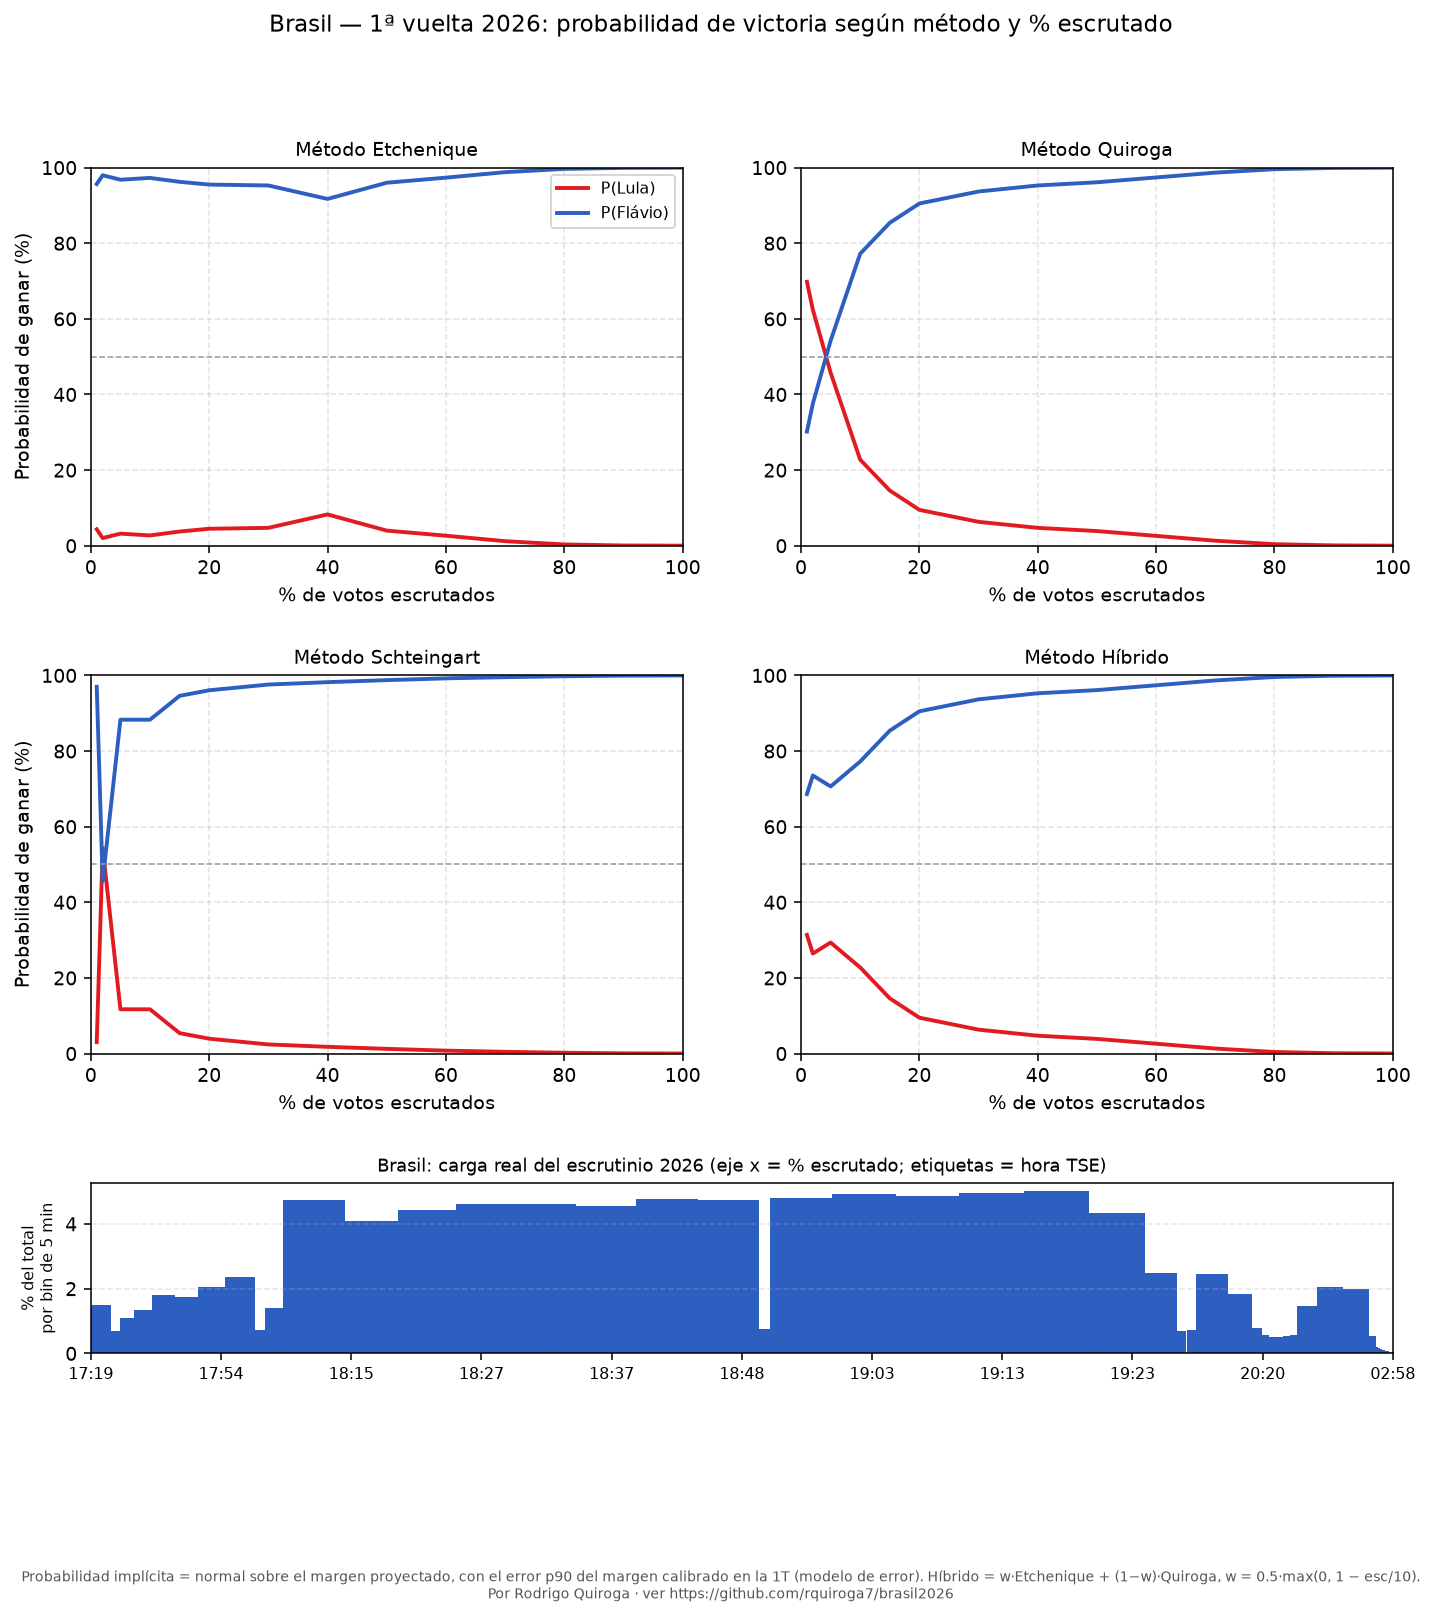
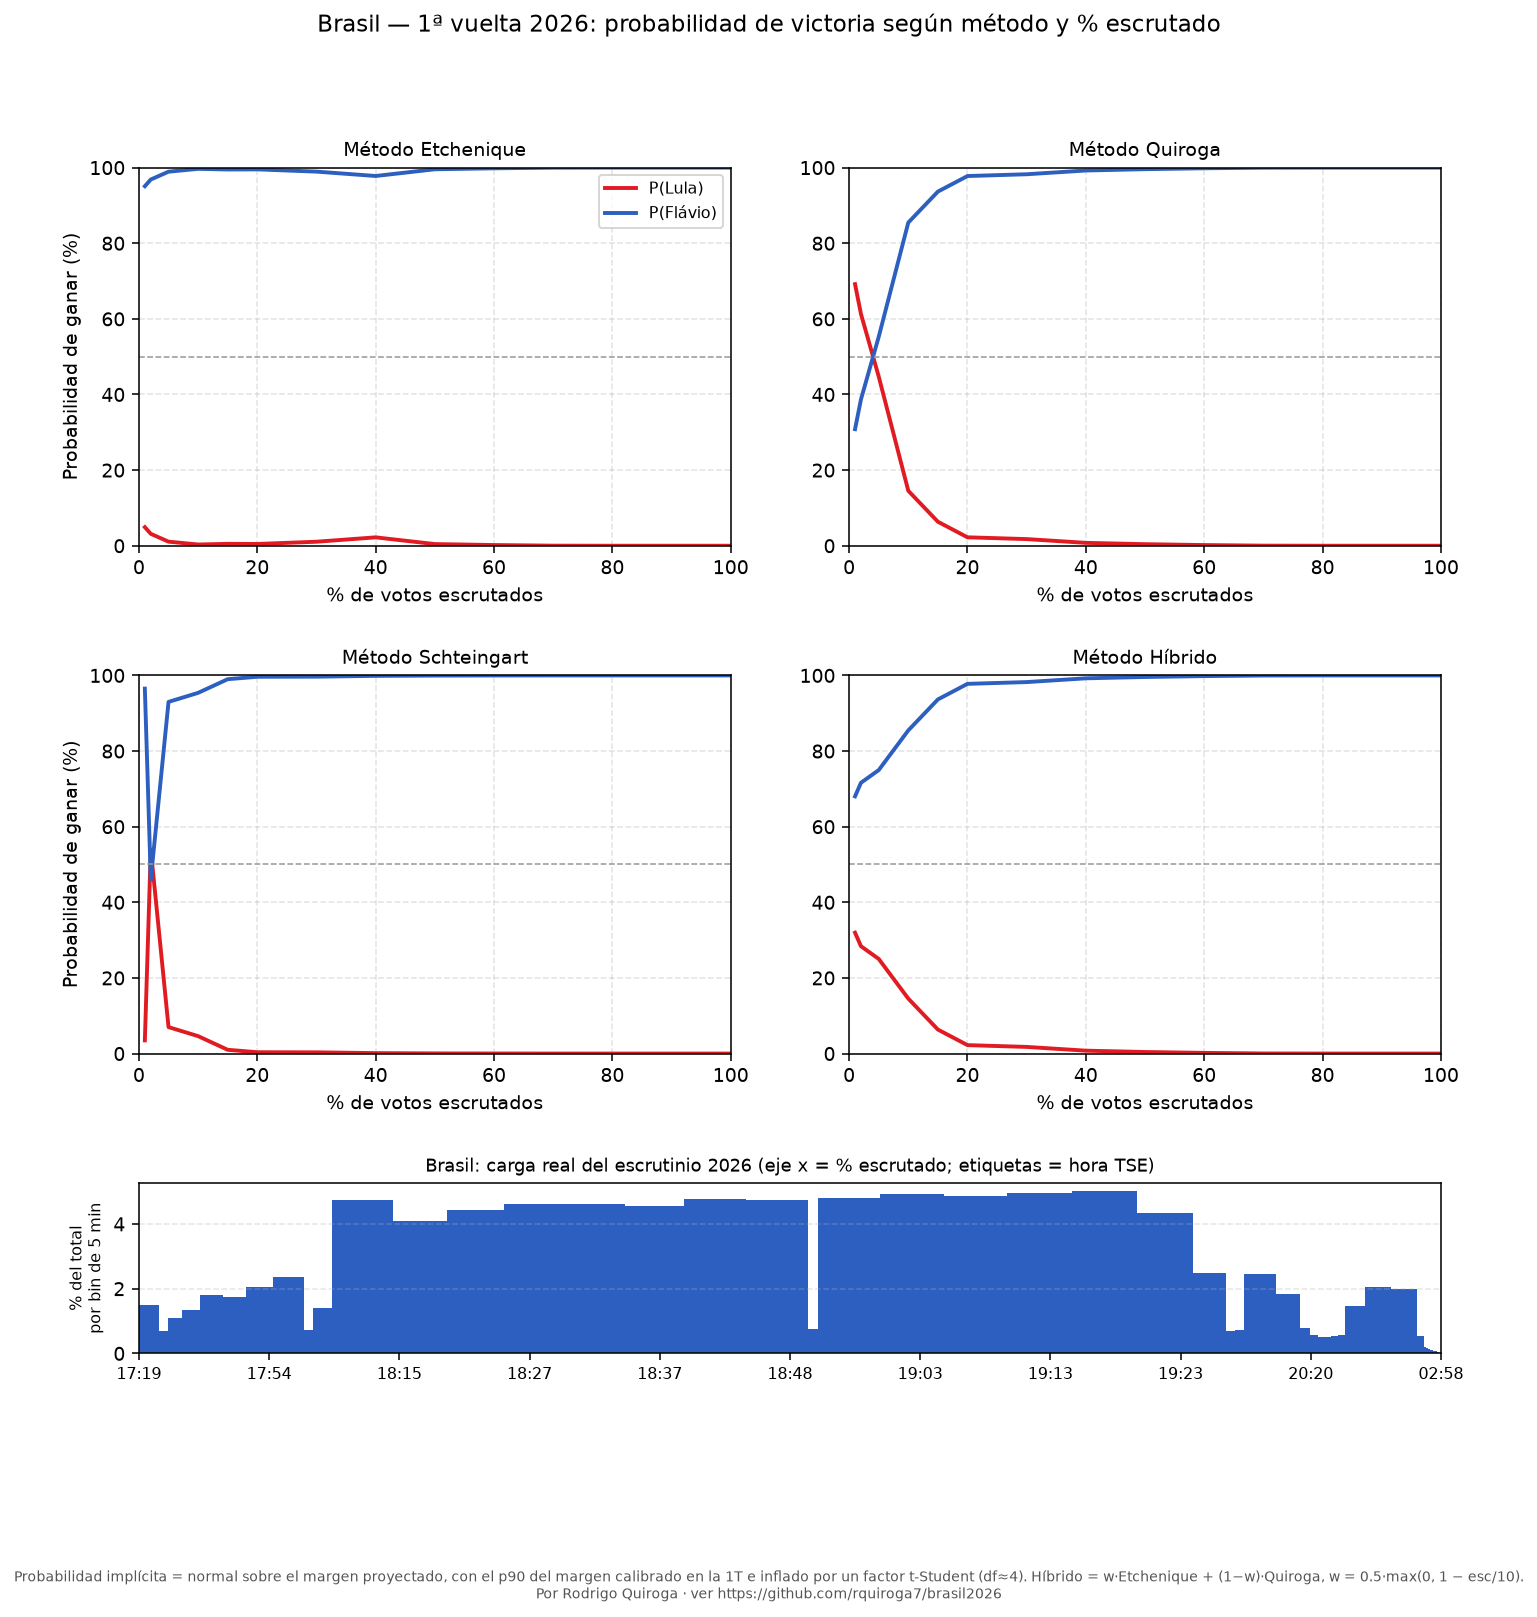
Dashboard: metodos swing-hibrida (defecto), swing-jerarquica, estratificada; 2T con v1/hybrid; margen inflado t-Student sin piso

diff --git a/index.html b/index.html
@@ -109,9 +109,9 @@
   <section id="tab-proj">
     <div class="toolbar">
       <div class="seg" id="seg_metodo">
-        <button data-m="swing" class="active">Quiroga</button>
-        <button data-m="scht_ng">Schteingart</button>
-        <button data-m="v1">Etchenique</button>
+        <button data-m="hybrid" class="active">Proyección swing-híbrida</button>
+        <button data-m="scht_ng">Proyección swing-jerárquica</button>
+        <button data-m="v1">Proyección estratificada</button>
       </div>
       <span class="small" id="nota_metodo"></span>
     </div>
@@ -263,15 +263,37 @@ const DATOS_URL_2T = (window.DATOS_URL_2T && window.DATOS_URL_2T.trim()) || "dat
 let ronda = "2t";
 const urlActual = () => (ronda === "2t" ? DATOS_URL_2T : DATOS_URL_1T);
 const COLORES = { lula: "#E11B22", flavio: "#4C8DFF", otros: "#8a8a8a" };
-let datos = null, metodo = "swing", ordenActual = "electores", ordenCrudo = "escrutado";
+let datos = null, metodo = "hybrid", ordenActual = "electores", ordenCrudo = "escrutado";
 let chartRaw = null, chartExt = null, chartSwing = null;
 
 const $ = (id) => document.getElementById(id);
 const fmtPct = (v) => (v == null ? "–" : Number(v).toFixed(2) + "%");
 const fmtNum = (v) => (v == null ? "–" : Number(v).toLocaleString("es"));
 const etiqueta = (t) => { const p = String(t).split(" "); return p.length > 1 ? p[1] : String(t); };
+const _blendCand = (a, b, w) => {
+  if (!a || !b) return a || b || {};
+  const f = (x, y) => (x != null && y != null) ? w * x + (1 - w) * y : (x != null ? x : y);
+  return { votos: Math.round(f(a.votos, b.votos)), pct: f(a.pct, b.pct),
+           p5: f(a.p5, b.p5), p95: f(a.p95, b.p95) };
+};
+const _blend = (a, b, w) => ({
+  lula: _blendCand(a && a.lula, b && b.lula, w),
+  flavio: _blendCand(a && a.flavio, b && b.flavio, w),
+  otros: _blendCand(a && a.otros, b && b.otros, w),
+  margen_p90: (a && a.margen_p90 != null && b && b.margen_p90 != null)
+    ? w * a.margen_p90 + (1 - w) * b.margen_p90
+    : ((a && a.margen_p90) != null ? a.margen_p90 : (b ? b.margen_p90 : null)),
+});
 const bloqueMetodo = (obj, m) => {
   if (!obj) return {};
+  if (m === "hybrid") {
+    if (obj.hybrid) return obj.hybrid;
+    const v1 = obj.v1, sw = obj.swing || obj.v1 || obj;
+    if (!v1 || !sw) return sw;
+    const esc = obj.escrutado != null ? obj.escrutado : (datos && datos.escrutado_pct) || 0;
+    const w = 0.5 * Math.max(0, 1 - esc / 10);
+    return _blend(v1, sw, w);
+  }
   if (obj[m]) return obj[m];
   return obj.swing || obj.v1 || obj;
 };
@@ -335,10 +357,9 @@ function pintarGanador() {
   const band = bandaDe(b, nat);
   const sl = Math.max((band.l[1] - band.l[0]) / (2 * 1.645), 0.1);
   const sf = Math.max((band.f[1] - band.f[0]) / (2 * 1.645), 0.1);
-  const piso = 0.5 + 1.5 * (1 - (datos.escrutado_pct || 0) / 100);
   const sm = (b.margen_p90 != null)
-    ? Math.hypot(b.margen_p90 / 1.645, piso)
-    : Math.hypot(sl, sf, piso);
+    ? (b.margen_p90 / 1.645) * 1.4
+    : Math.hypot(sl, sf) * 1.4;
   const m = b.lula.pct - b.flavio.pct;
   const pl = 1 - normCdf(-m / sm);
   const pf = 1 - pl;
@@ -350,7 +371,7 @@ function pintarGanador() {
   $("ci_lula").textContent = "(" + band.l[0].toFixed(1) + "–" + band.l[1].toFixed(1) + ")";
   $("res_flavio").textContent = b.flavio.pct.toFixed(1) + "%";
   $("ci_flavio").textContent = "(" + band.f[0].toFixed(1) + "–" + band.f[1].toFixed(1) + ")";
-  $("sc_metodo").textContent = ({ scht_ng: "Schteingart", swing: "Quiroga", v1: "Etchenique" })[metodo] || metodo;
+  $("sc_metodo").textContent = ({ hybrid: "Swing-híbrida", scht_ng: "Swing-jerárquica", v1: "Estratificada" })[metodo] || metodo;
   $("sc_ronda").textContent = "Brasil 2026 · " + (ronda === "2t" ? "2ª vuelta" : "1ª vuelta");
   $("sc_escrutado").textContent = "Escrutado: " + fmtPct(datos.escrutado_pct);
   $("sc_actualizado").textContent = "Actualizado: " + (datos.actualizado || "–");
@@ -386,8 +407,8 @@ function pintarNacional() {
   ctrl.textContent = datos.estado_control || "–";
   ctrl.className = "pill" + ((datos.estado_control || "").includes("INCERTEZA") ? " warn" : "");
 
-  const nombres = { scht_ng: "Schteingart", swing: "Quiroga", v1: "Etchenique" };
-  const etiq = { scht_ng: "Schteingart", swing: "Quiroga", v1: "Etchenique" };
+  const nombres = { hybrid: "Proyección swing-híbrida", scht_ng: "Proyección swing-jerárquica", v1: "Proyección estratificada" };
+  const etiq = { hybrid: "swing-híbrida", scht_ng: "swing-jerárquica", v1: "estratificada" };
   $("metodo_nombre").textContent = "· método " + (nombres[metodo] || metodo);
   $("h_lula").textContent = "Proyectado · Lula (" + (etiq[metodo] || metodo) + ")";
   $("h_flavio").textContent = "Proyectado · Flavio (" + (etiq[metodo] || metodo) + ")";

diff --git a/proyeccion_2t.py b/proyeccion_2t.py
@@ -149,7 +149,22 @@ def quiroga(m):
     q2p = expit(logit(q1) + m["sw_use"])
     l2p = np.where(cnt, m["l2"], e * q2p)
     f2p = np.where(cnt, m["f2"], e * (1 - q2p))
-    return float(np.nansum(l2p)), float(np.nansum(f2p))
+    # v1 (estratificada): media de lo contado por estado; fallback al base 1T
+    est_q2 = {}
+    for uf, g in m.groupby("uf"):
+        gg = g[g["f"] > 0]
+        tot = gg["l2"].sum() + gg["f2"].sum()
+        if tot > 0:
+            est_q2[uf] = float(gg["l2"].sum() / tot)
+    q2v1 = m["uf"].map(est_q2).astype(float).to_numpy()
+    cnta = np.asarray(cnt)
+    q2v1 = np.where(cnta, np.asarray(q2, dtype=float), q2v1)
+    q2v1 = np.where(np.isnan(q2v1), np.asarray(q1, dtype=float), q2v1)
+    en = np.asarray(e, dtype=float)
+    l1p = np.where(cnta, m["l2"].to_numpy(), en * q2v1)
+    f1p = np.where(cnta, m["f2"].to_numpy(), en * (1 - q2v1))
+    return (float(np.nansum(l2p)), float(np.nansum(f2p)),
+            float(np.nansum(l1p)), float(np.nansum(f1p)))
 
 
 def schteingart(base, live):
@@ -205,15 +220,21 @@ def payload_ambito(base, live, nombre="BR"):
     val_cnt = l_cnt + f_cnt
     br, nu = m["br2"].sum(), m["nu2"].sum()
     total_cnt = val_cnt + br + nu
-    ql, qf = quiroga(m)
+    ql, qf, l_v1, f_v1 = quiroga(m)
     scht = schteingart(base, live) if (live is not None and not live.empty) else None
     esc = 100 * m["sec_cnt"].sum() / max(m["sec_tot"].sum(), 1)
     b_swing = bloque(ql, qf, ql + qf)
+    b_v1 = bloque(l_v1, f_v1, l_v1 + f_v1)
     b_scht = bloque(scht[0], scht[1], scht[0] + scht[1]) if scht else dict(b_swing)
+    w = 0.5 * max(0.0, 1.0 - min(esc, 100) / 10.0)
+    b_hyb = bloque(w * l_v1 + (1 - w) * ql, w * f_v1 + (1 - w) * qf,
+                   w * (l_v1 + f_v1) + (1 - w) * (ql + qf))
     out = {
         "escrutado": round(esc, 2),
         "crudo": crudo_bloque(l_cnt, f_cnt, val_cnt, total_cnt, br, nu),
         "swing": b_swing,
+        "v1": b_v1,
+        "hybrid": b_hyb,
         "schteingart": b_scht,
     }
     out["scht_ng"] = b_scht
@@ -222,7 +243,7 @@ def payload_ambito(base, live, nombre="BR"):
     x = min(max(esc, 0.0), 100.0) / 100.0
     hw = max(float(np.interp(x, xs, cs)), 0.05 * (1 - x))
     mrg = float(np.interp(x, xs, ms))
-    for blk in (out["crudo"], out["swing"], out["schteingart"]):
+    for blk in (out["crudo"], out["swing"], out["v1"], out["hybrid"], out["schteingart"]):
         blk["margen_p90"] = round(mrg, 2)
         for c in ("lula", "flavio"):
             p = blk[c]["pct"]
@@ -259,7 +280,8 @@ def main():
             "electores_habilitados": int(bu["electores"].sum()),
             "validos_proyectados": int(eu["swing"]["lula"]["votos"] + eu["swing"]["flavio"]["votos"]),
             "1t": blk1,
-            "crudo": eu["crudo"], "swing": eu["swing"], "schteingart": eu["schteingart"],
+            "crudo": eu["crudo"], "swing": eu["swing"], "v1": eu["v1"],
+            "hybrid": eu["hybrid"], "schteingart": eu["schteingart"],
             "scht_ng": eu["scht_ng"],
         })
 

diff --git a/graficar_backtest_probabilidad.py b/graficar_backtest_probabilidad.py
@@ -45,8 +45,8 @@ def main():
         ax = fig.add_subplot(gs[i // 2, i % 2])
         axes.append(ax)
         margen = np.interp(bt["escrutado_pct"] / 100.0, xs, ms)
-        # p90 calibrado + piso prudente que se angosta con el escrutado (menos confianza)
-        sd = np.hypot(margen / 1.645, 0.5 + 1.5 * (1 - bt["escrutado_pct"] / 100.0))
+        # p90 del margen inflado por el factor t-Student (df≈4) para no ser sobreconfiado
+        sd = (margen / 1.645) * 1.4
         for c, etiqueta in (("lula", "Lula"), ("flavio", "Flávio")):
             marg = (bt[f"{m_}_lula"] - bt[f"{m_}_flavio"]) if c == "lula" else \
                 (bt[f"{m_}_flavio"] - bt[f"{m_}_lula"])
@@ -92,9 +92,9 @@ def main():
     fig.suptitle("Brasil — 1ª vuelta 2026: probabilidad de victoria según método y % escrutado",
                  fontsize=12)
     fig.tight_layout(rect=[0, 0.03, 1, 0.96])
-    ep.mpl(fig, "Probabilidad implícita = normal sobre el margen proyectado, con el error p90 "
-                "del margen calibrado en la 1T (modelo de error). Híbrido = w·Etchenique + "
-                "(1−w)·Quiroga, w = 0.5·max(0, 1 − esc/10).")
+    ep.mpl(fig, "Probabilidad implícita = normal sobre el margen proyectado, con el p90 del "
+                "margen calibrado en la 1T e inflado por un factor t-Student (df≈4). "
+                "Híbrido = w·Etchenique + (1−w)·Quiroga, w = 0.5·max(0, 1 − esc/10).")
     fig.savefig(OUT, dpi=140, bbox_inches="tight")
     plt.close(fig)
     print(f"[OK] {OUT}")
